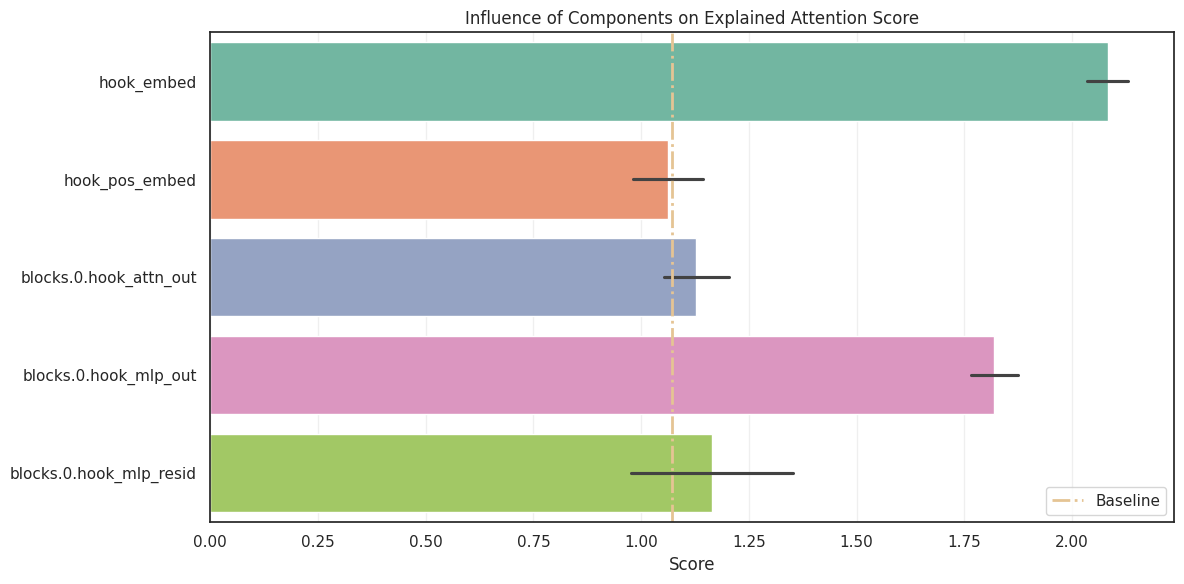
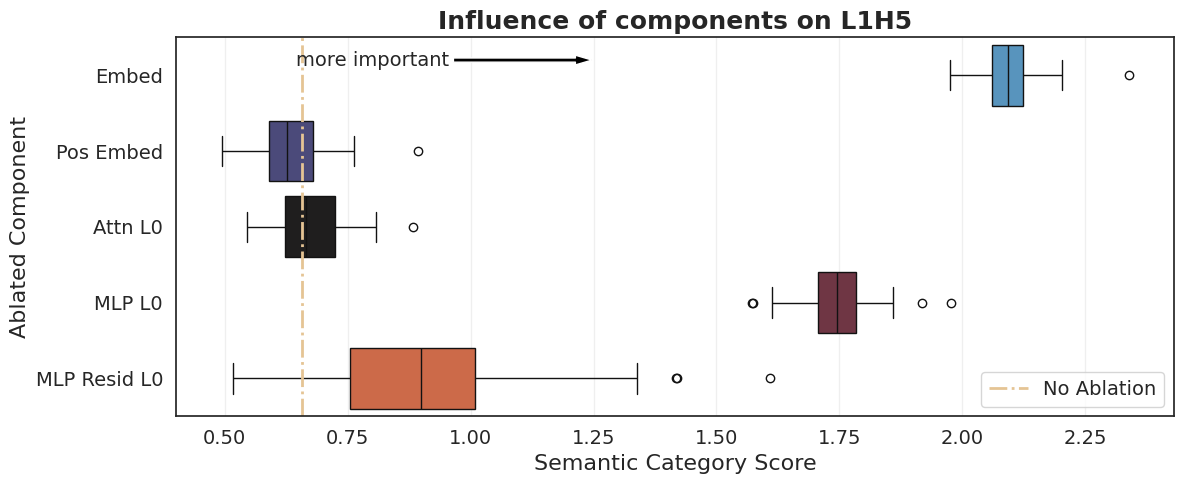
vault backup: 17/06/2025 14:53:54

diff --git a/content/ARENA/Draft.md b/content/ARENA/Draft.md
@@ -10,6 +10,8 @@ url:
 >
 >_work performed as part of ARENA 5.0 Capstone project_
 
+
+
 ## Introduction
 Within gpt2-small lies an unusual component: attention head L1H5[^1] which fires on semantically similar concepts. It excels at connecting related concepts: the token `cat` attends to `dog`, and `red` attends to `green` and `blue`. Normally, this would be unsurprising, as we would expect embedding vectors to already cluster based on topic/semantic categories. But oddly enough, for this head, tokens do not attend to themselves. For example, the token `dog` will attend to other animals in the context, but it will not attend to itself or other instances of the token `dog`.
 
@@ -75,9 +77,11 @@ Surprisingly, 2 out of 4 components are completely irrelevant. The head's behavi
 - The token embedding matrix, $W_E$.
 - The first MLP layer, $\texttt{MLP}_0$.
 - The residual stream around the first MLP.
-![[Pasted image 20250617142846.png]]
+![[component_importance.png]]
 
 Interestingly, ablating the positional embeddings ($W_{pos}$) and the previous attention layer ($\texttt{Attn}_0$) had almost no effect. This is a crucial clue: the head isn't using positional or sequential information to avoid attending to itself. The mechanism must be inherent to the token representations themselves, which in turn depend only on the embedding matrix ($W_E$) and the MLP.
+
+![[component_ablation.png]]
 
 From this, I concluded that the essential input to L1H5 can be represented simply as:
 $$
@@ -116,6 +120,7 @@ url: "https://mamiglia.github.io/feature-attn"
 
 
 If you do you may note some interesting clusters:
+![[clusters.png]]
 
 Note also that tokens don't usually attend to themselves (or different versions of themselves). For example `east` doesn't attend to `East`, `Eastern`, `eastern`.
 
